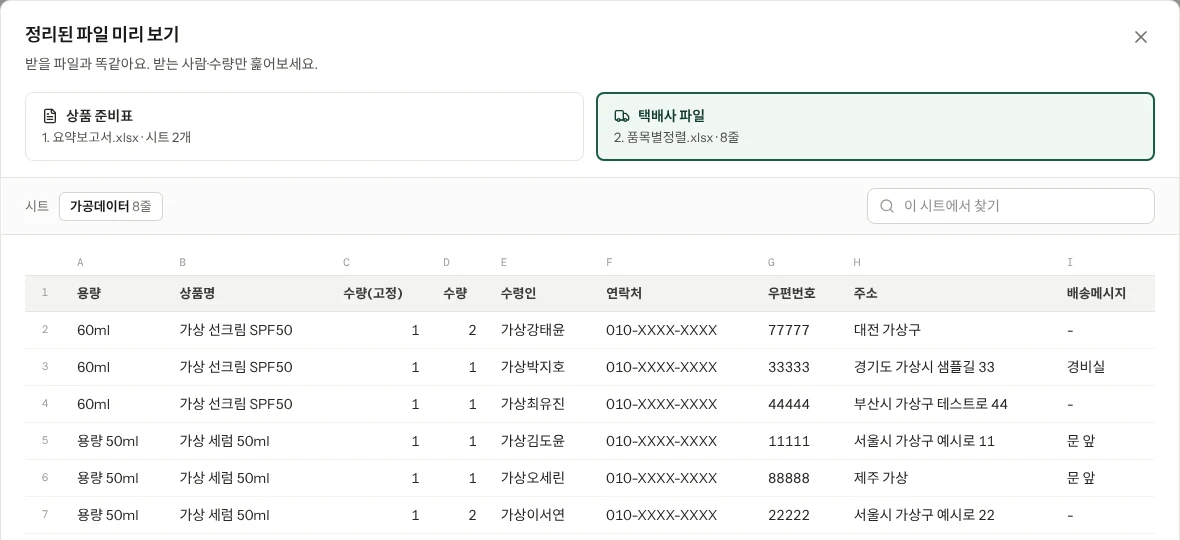
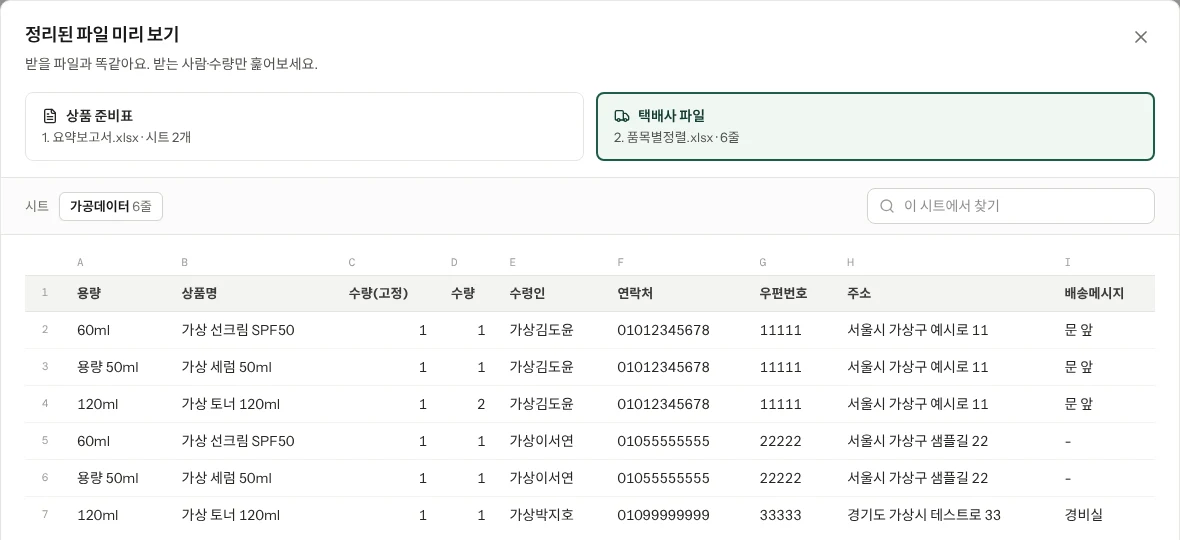
랜딩 사진 교체: 합포장 택배사 파일, 잘못된 주문 경고 (가상 데이터)
- courier-file: 쿠팡 양식 가상 주문에서 같은 받는 사람의 주문이 붙은 택배사 파일 (합포장)
- check-orders: 주소가 짧은 가상 주문 2건 경고 화면, 전화번호는 01000000000 같은 가짜 번호
- 잘못된 주문 사진 설명에서 전화번호 자릿수 문구 제거

Claude-Session: https://claude.ai/code/session_01GyQoHdpg2SvZMFC9WBRYni

diff --git a/src/landing/mount.ts b/src/landing/mount.ts
@@ -201,7 +201,7 @@ const features = `
         <h3>이상한 주문은 먼저 알려 줘요</h3>
         <p>이름·전화번호·주소 점검</p>
         <div class="panel" ${mesh(47)}>
-            <div class="stage stage--fade-b"><div class="at-corner to-edge" style="--ax:28px;--ay:28px">${shot('check-orders', 1344, 740, '잘못 배송될 수 있는 주문 2건: 전화번호가 9자리, 주소가 너무 짧음', 'loading="lazy" style="width:600px"')}</div></div>
+            <div class="stage stage--fade-b"><div class="at-corner to-edge" style="--ax:28px;--ay:28px">${shot('check-orders', 920, 370, '잘못 배송될 수 있는 주문 2건: 주소가 너무 짧음', 'loading="lazy" style="width:600px"')}</div></div>
         </div>
       </article>
       <article class="card card--row card--open span-6">
